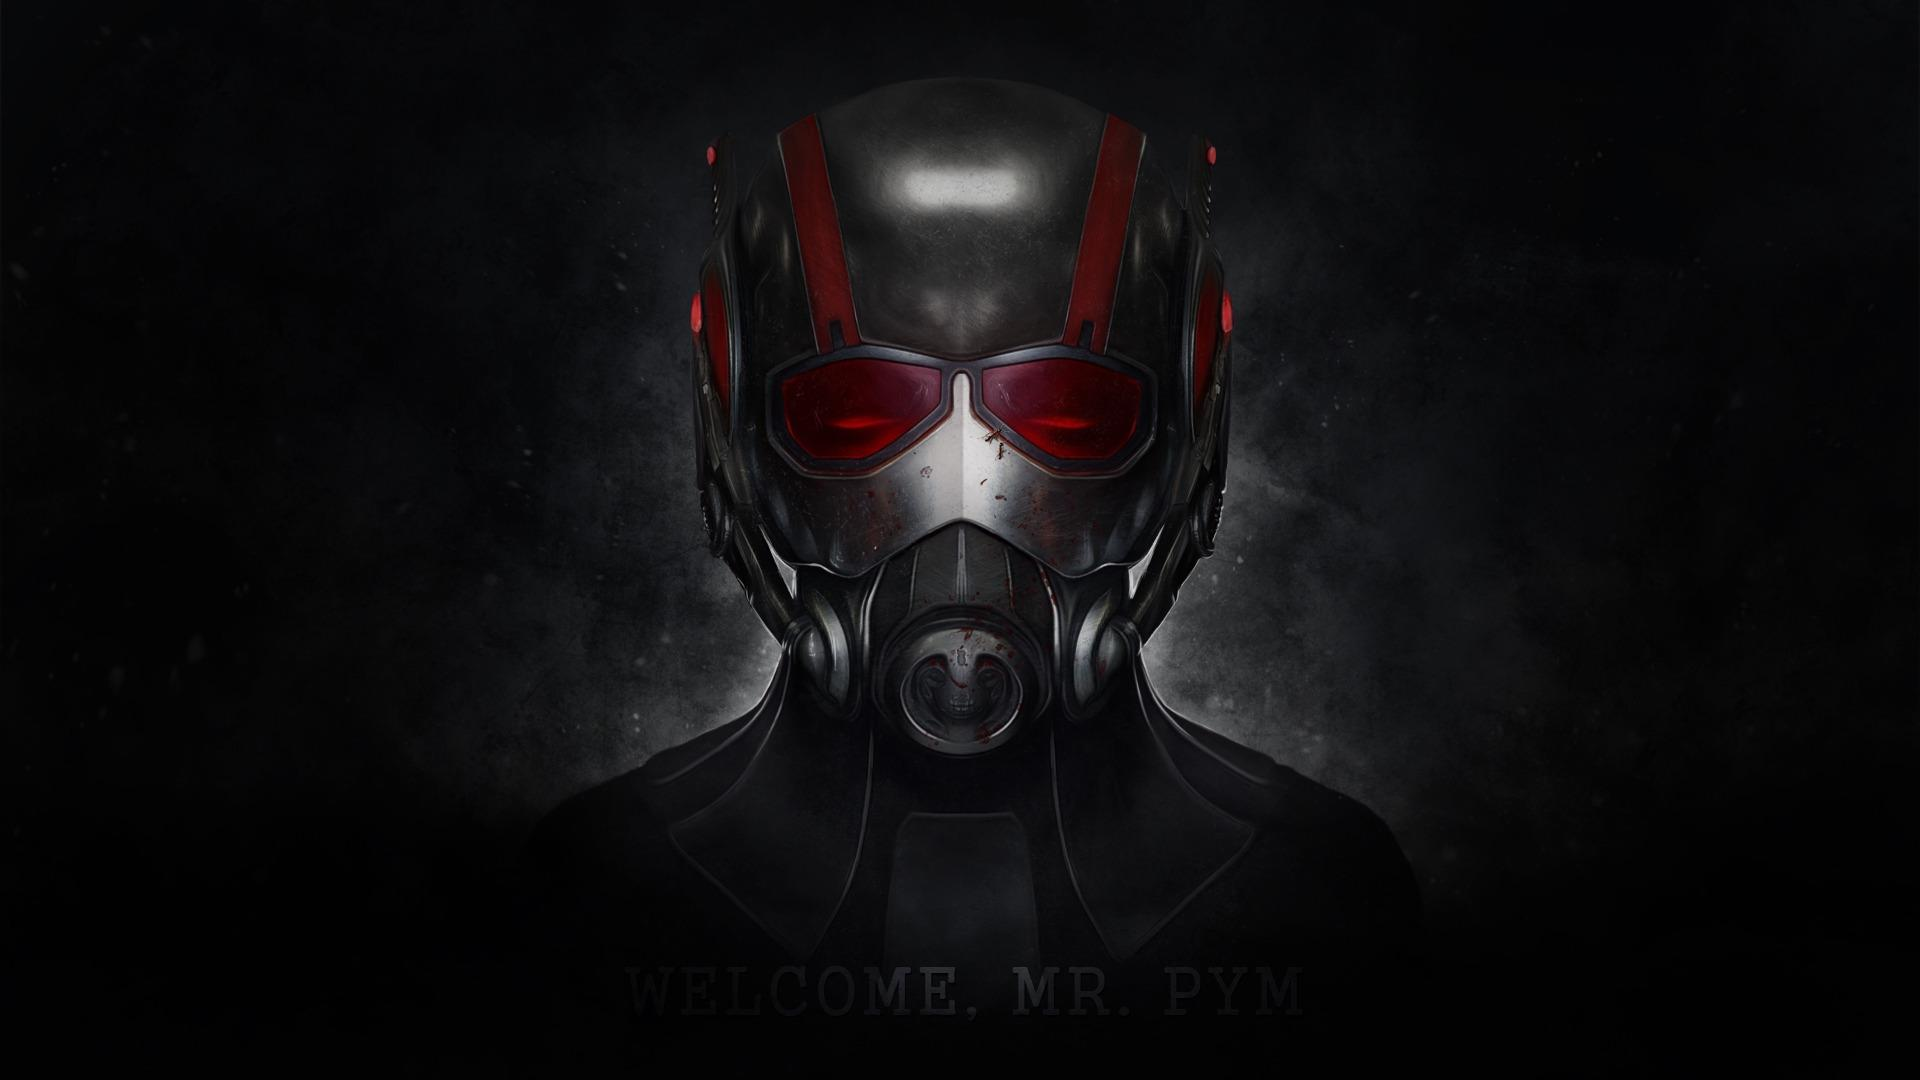
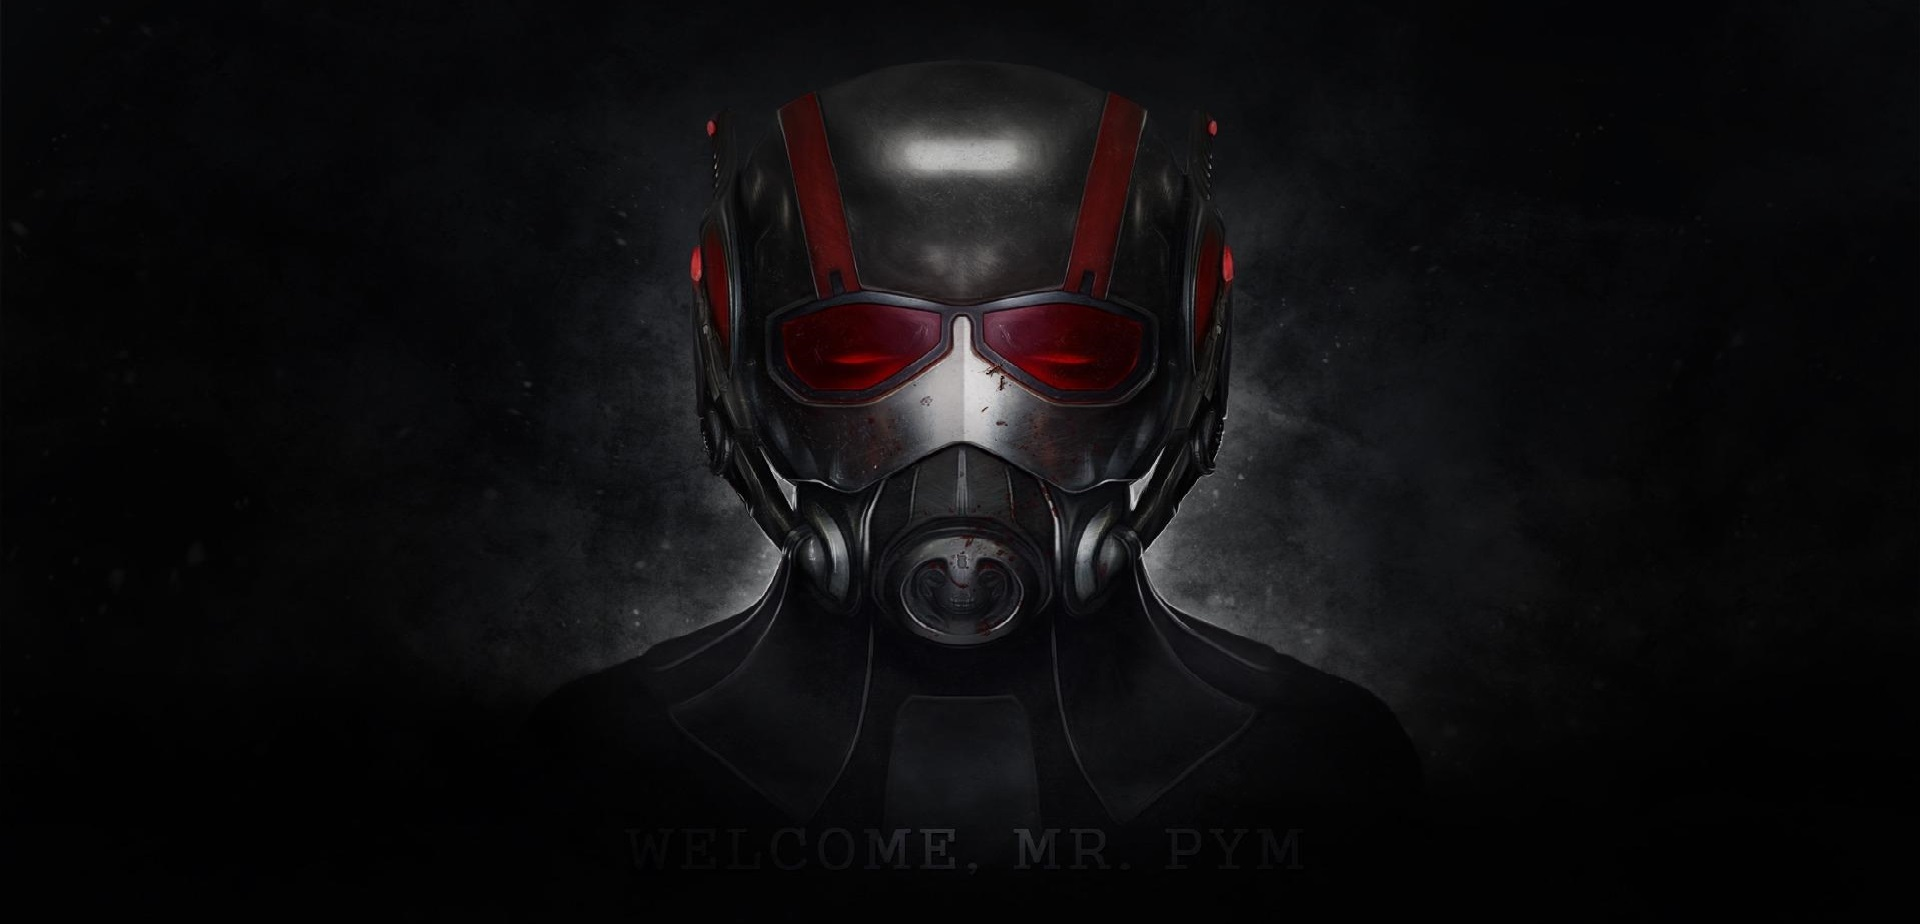
UPDATE arrangement de la structure de l'espace des projet et ajout d'un bouton

diff --git a/public/css/style.css b/public/css/style.css
@@ -46,21 +46,35 @@
 .banniere{
   display: block;
   width: 100%;
-  height: 40%;
-  max-width: 100%;
-  max-height: 40%;
+  height: 20%;
+  max-height: 20%;
 }
 
 .banniere img{
   width: 100%;
-  height: 100%;
+  height: 20%;
 }
 
 /* Corps de la page principale */
-.project-container{
+.project-space{
   display: block;
   width: 100%;
   height: 100%;
-  border: solid red;
-  padding: 5px;
+  max-height: 100%;
+  padding: 25px;
+}
+
+.project-space h2{
+  color: #333333;
+}
+
+.project-space .card{
+  height: 20%;
+  max-height: 20%;
+  margin-left: 6.5%;
+  box-shadow: 0px 1px 6px gray;
+}
+
+.project-space .card.add{
+  cursor: pointer;
 }
